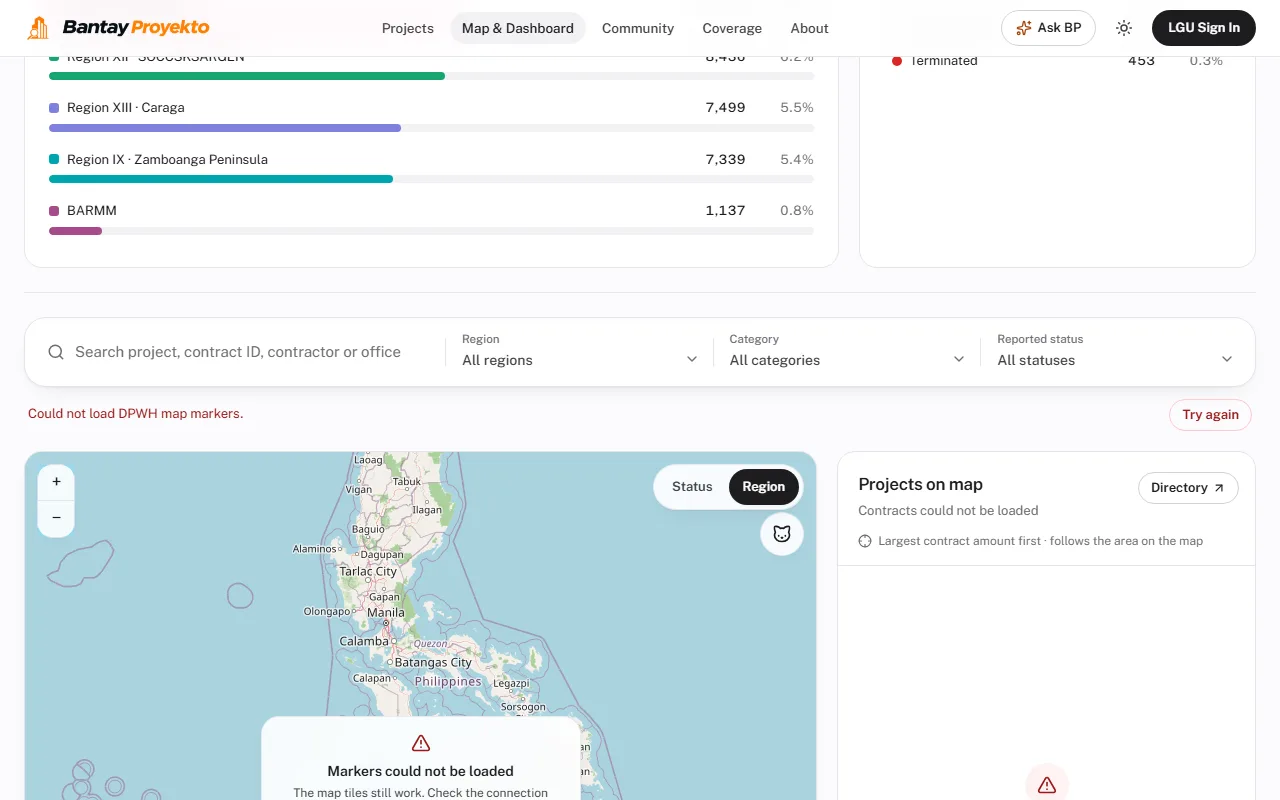
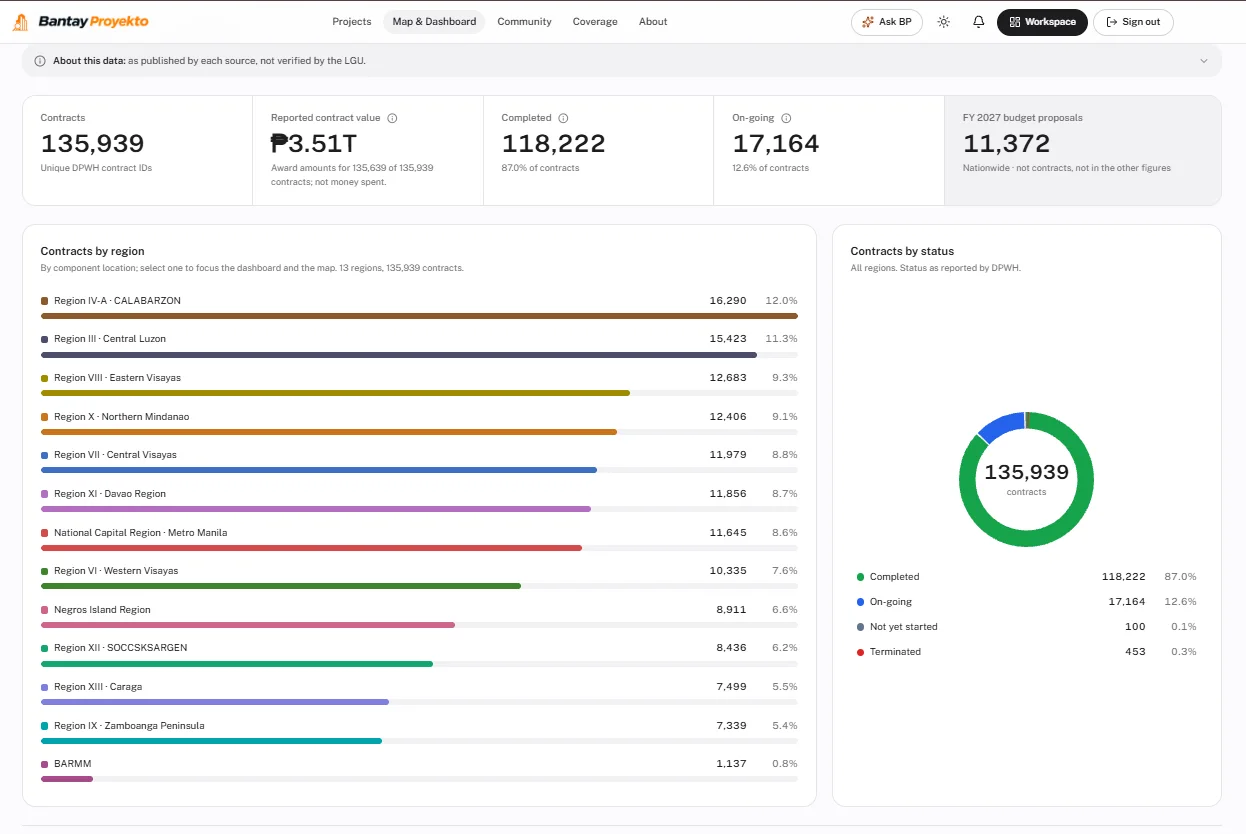
docs: replace the map and dashboard screenshots; drop the outdated and error screenshots

diff --git a/README.md b/README.md
@@ -79,9 +79,9 @@ source (for BetterGov.ph data, the exact dataset file and revision).
 - **Street View cat:** drag it onto the map to see the street there.
 - **Share a project:** `/projects/map?code=FALGU-26-10-13-01-000-1` opens the LGU layer and zooms to it.
 
-<img src="docs/images/dashboard.webp" width="1280" alt="Dashboard: contract totals, reported contract value, completed and on-going counts, contracts by region and a status donut">
+<img src="docs/images/dashboard.webp" width="1280" alt="Dashboard: 135,939 DPWH contracts, reported contract value, completed and on-going counts, contracts by region and a status donut">
 
-<img src="docs/images/map-dpwh.webp" width="1280" alt="Project map, DPWH layer: status-coloured markers across the country beside a list of contracts in view">
+<img src="docs/images/map-dpwh.webp" width="1280" alt="Project map, DPWH layer: the 2,000 largest of 130,273 mapped contracts, coloured by region, with filters above and the list of contracts in view on the right">
 
 <img src="docs/images/map-lgu.webp" width="1280" alt="Project map, LGU layer: the layer switch, SubayBAYAN category chips with counts, and source, location, year and status filters">
 
